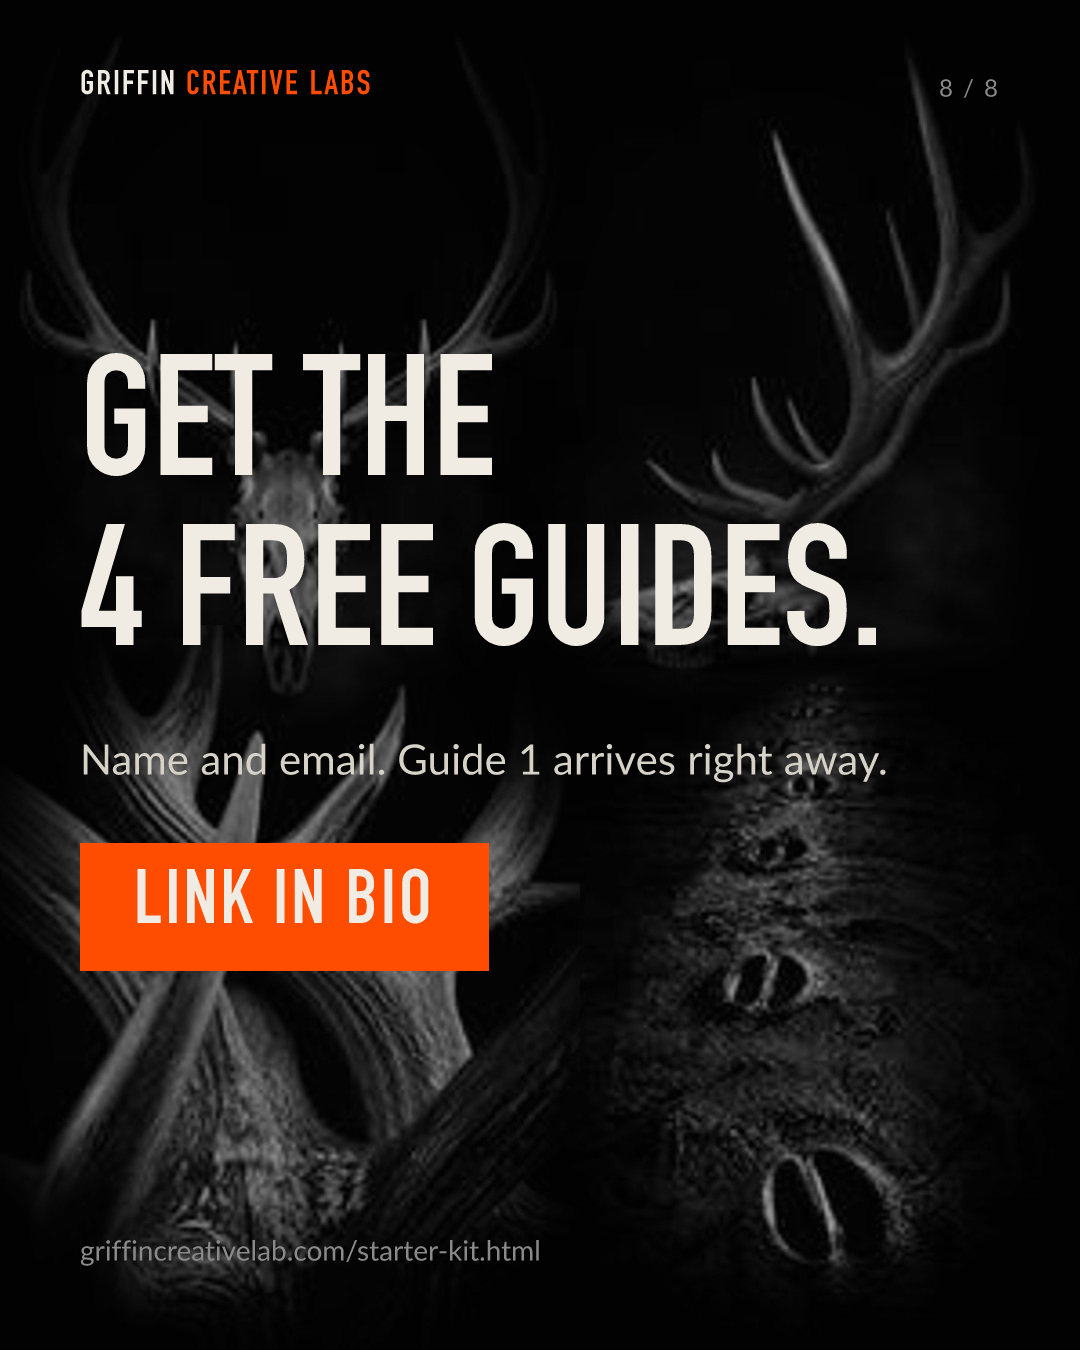
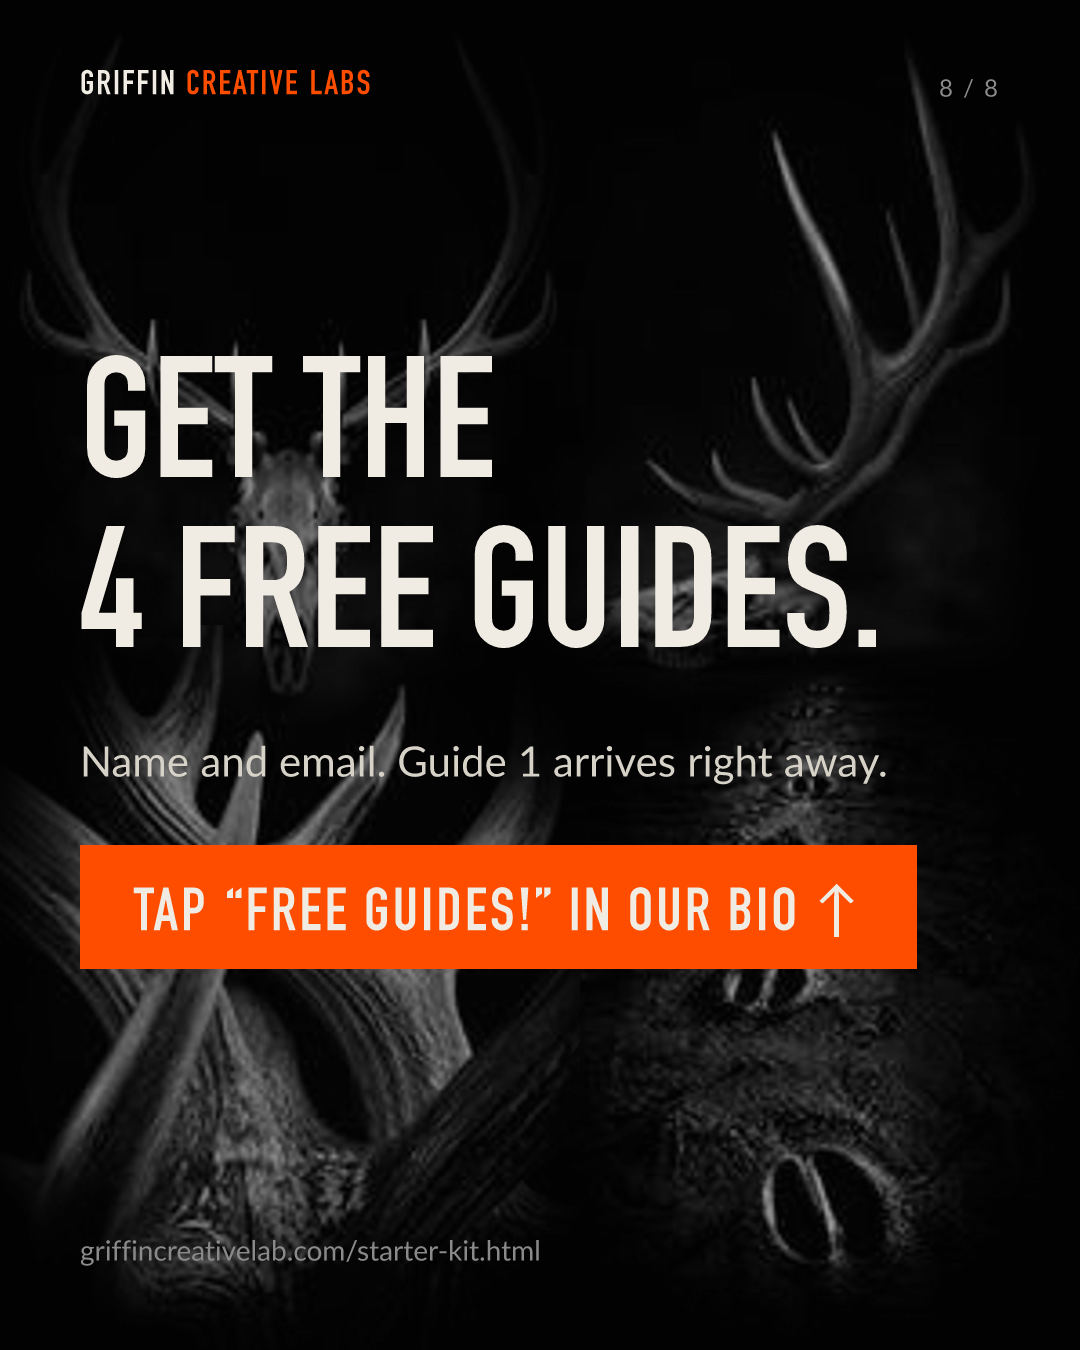
Carousel last slides: button now reads 'Tap "Free guides!" in our bio' to match the IG bio link; optional shortlink + buttonSize in cta layout

diff --git a/scripts/render-content-slides.js b/scripts/render-content-slides.js
@@ -277,13 +277,19 @@ function render(slide, i, total) {
               backgroundColor: C.orange,
               color: C.white,
               fontFamily: 'DIN',
-              fontSize: 76,
+              fontSize: slide.buttonSize || 76,
               letterSpacing: 3,
               padding: '26px 54px',
               alignSelf: 'flex-start',
             },
             slide.button
           ),
+          slide.shortlink
+            ? div({ flexDirection: 'column', marginTop: 44 }, [
+                div({ fontSize: 30, color: C.gray, letterSpacing: 2, marginBottom: 6 }, 'OR TYPE IT IN'),
+                div({ fontFamily: 'DIN', fontSize: 78, color: C.white, letterSpacing: 2 }, slide.shortlink),
+              ])
+            : '',
         ],
         slide.foot
       );
